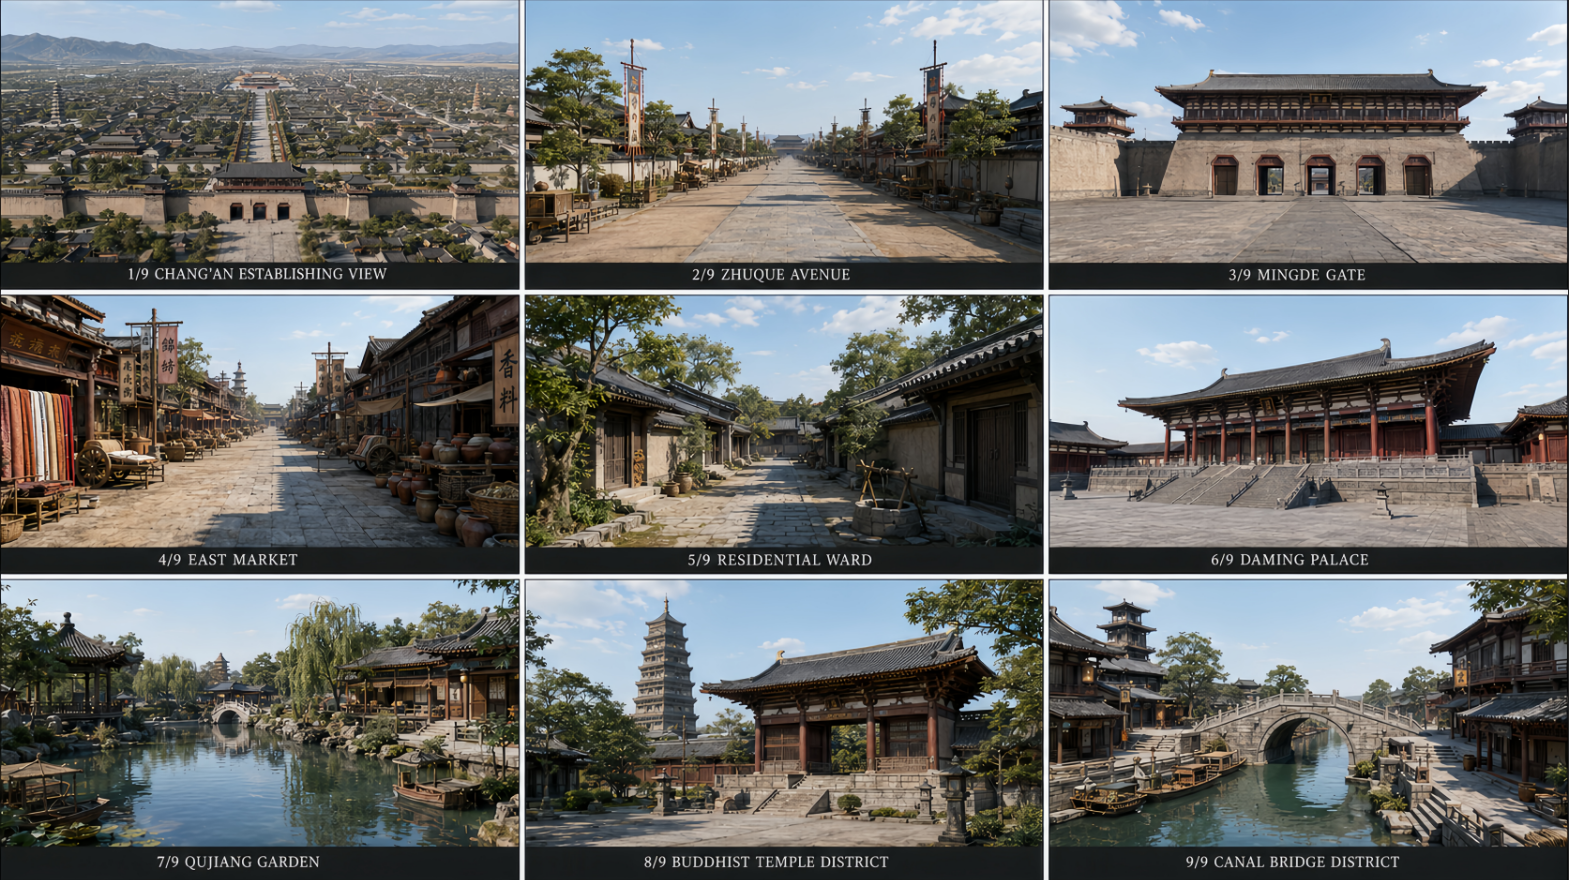
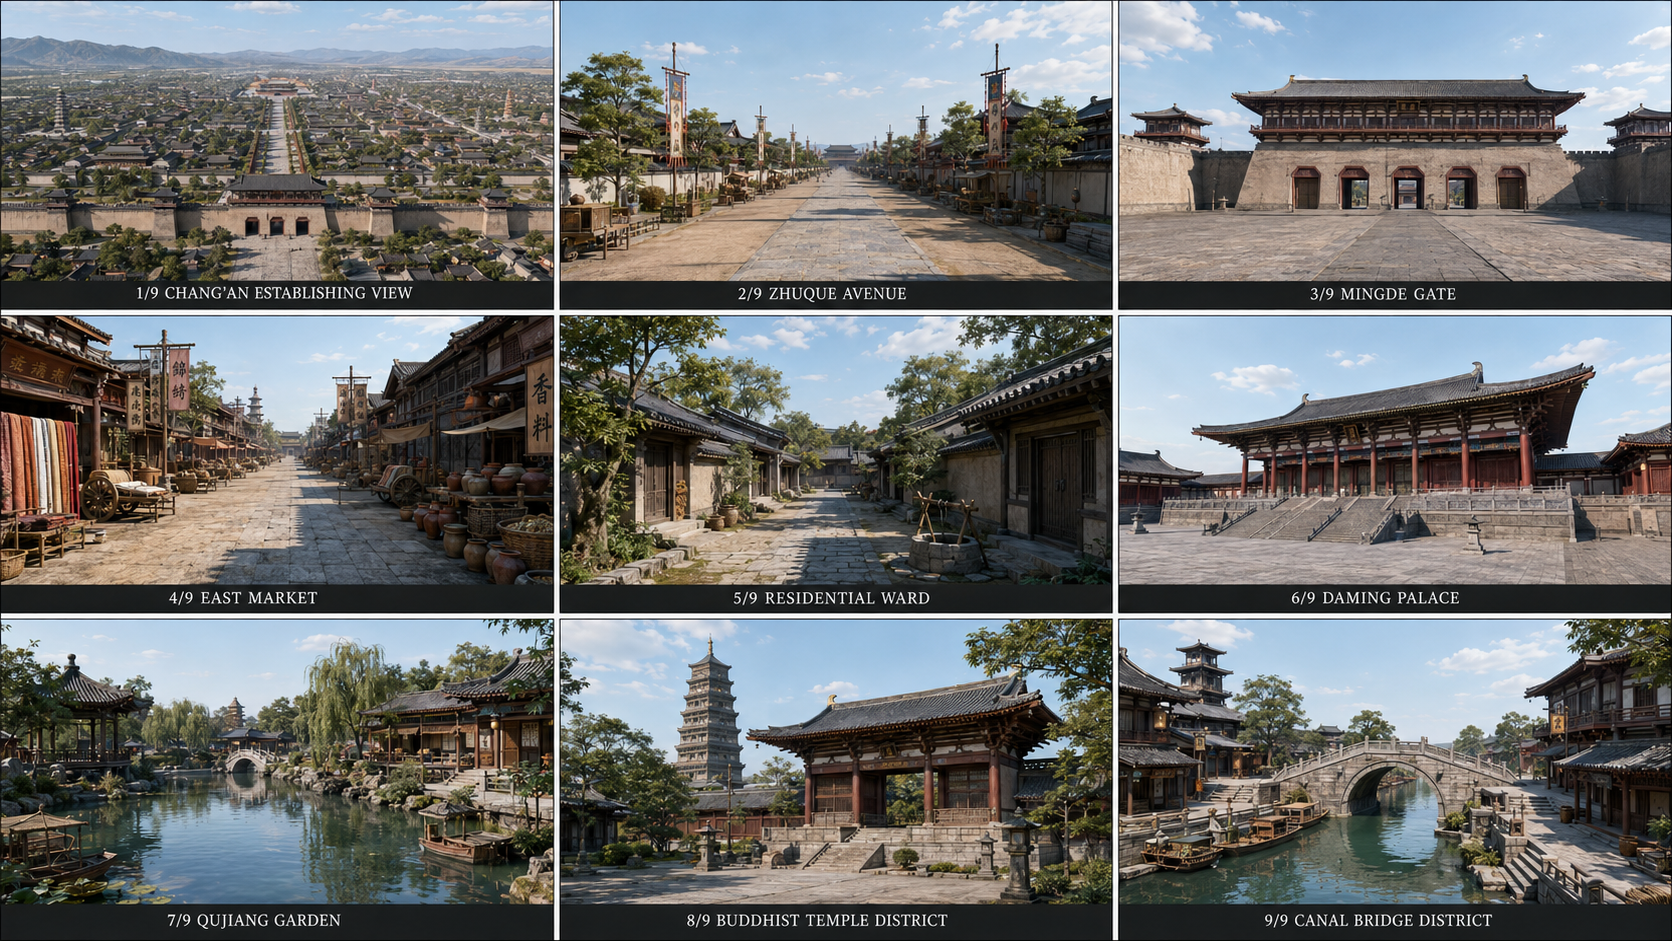
Update README

diff --git a/README.md b/README.md
@@ -125,29 +125,23 @@ These assets are not isolated reference images. They are designed as **complete 
 
 #### 👤 Character Asset Library
 
-<table>
-  <tr>
-    <td width="50%" align="center" valign="top">
-      <img
-        src="./assets/character_assets_01.png"
-        alt="AdCraft character asset library overview 1"
-        width="100%"
-      />
-    </td>
-    <td width="50%" align="center" valign="top">
-      <img
-        src="./assets/character_assets_02.png"
-        alt="AdCraft character asset library overview 2"
-        width="100%"
-      />
-    </td>
-  </tr>
-  <tr>
-    <td colspan="2" align="center">
-      <sub>Browse, manage, and reuse production-ready character assets directly inside AdCraft.</sub>
-    </td>
-  </tr>
-</table>
+<div align="center">
+  <img
+    src="./assets/character_assets_01.png"
+    alt="AdCraft character asset library overview — part 1"
+    width="100%"
+  />
+  <br/><br/>
+  <img
+    src="./assets/character_assets_02.png"
+    alt="AdCraft character asset library overview — part 2"
+    width="100%"
+  />
+  <br/>
+  <sub>
+    Browse, manage, and reuse production-ready character assets directly inside AdCraft.
+  </sub>
+</div>
 
 <br/>
 
@@ -235,29 +229,23 @@ Together, these references help preserve the same character identity across clos
 
 #### 🌍 Scene Asset Library
 
-<table>
-  <tr>
-    <td width="50%" align="center" valign="top">
-      <img
-        src="./assets/scene_assets_01.png"
-        alt="AdCraft scene asset library overview 1"
-        width="100%"
-      />
-    </td>
-    <td width="50%" align="center" valign="top">
-      <img
-        src="./assets/scene_assets_02.png"
-        alt="AdCraft scene asset library overview 2"
-        width="100%"
-      />
-    </td>
-  </tr>
-  <tr>
-    <td colspan="2" align="center">
-      <sub>Explore reusable scene worlds and save them directly to your AdCraft workspace.</sub>
-    </td>
-  </tr>
-</table>
+<div align="center">
+  <img
+    src="./assets/scene_assets_01.png"
+    alt="AdCraft scene asset library overview — part 1"
+    width="100%"
+  />
+  <br/><br/>
+  <img
+    src="./assets/scene_assets_02.png"
+    alt="AdCraft scene asset library overview — part 2"
+    width="100%"
+  />
+  <br/>
+  <sub>
+    Explore reusable scene worlds and save them directly to your AdCraft workspace.
+  </sub>
+</div>
 
 <br/>
 